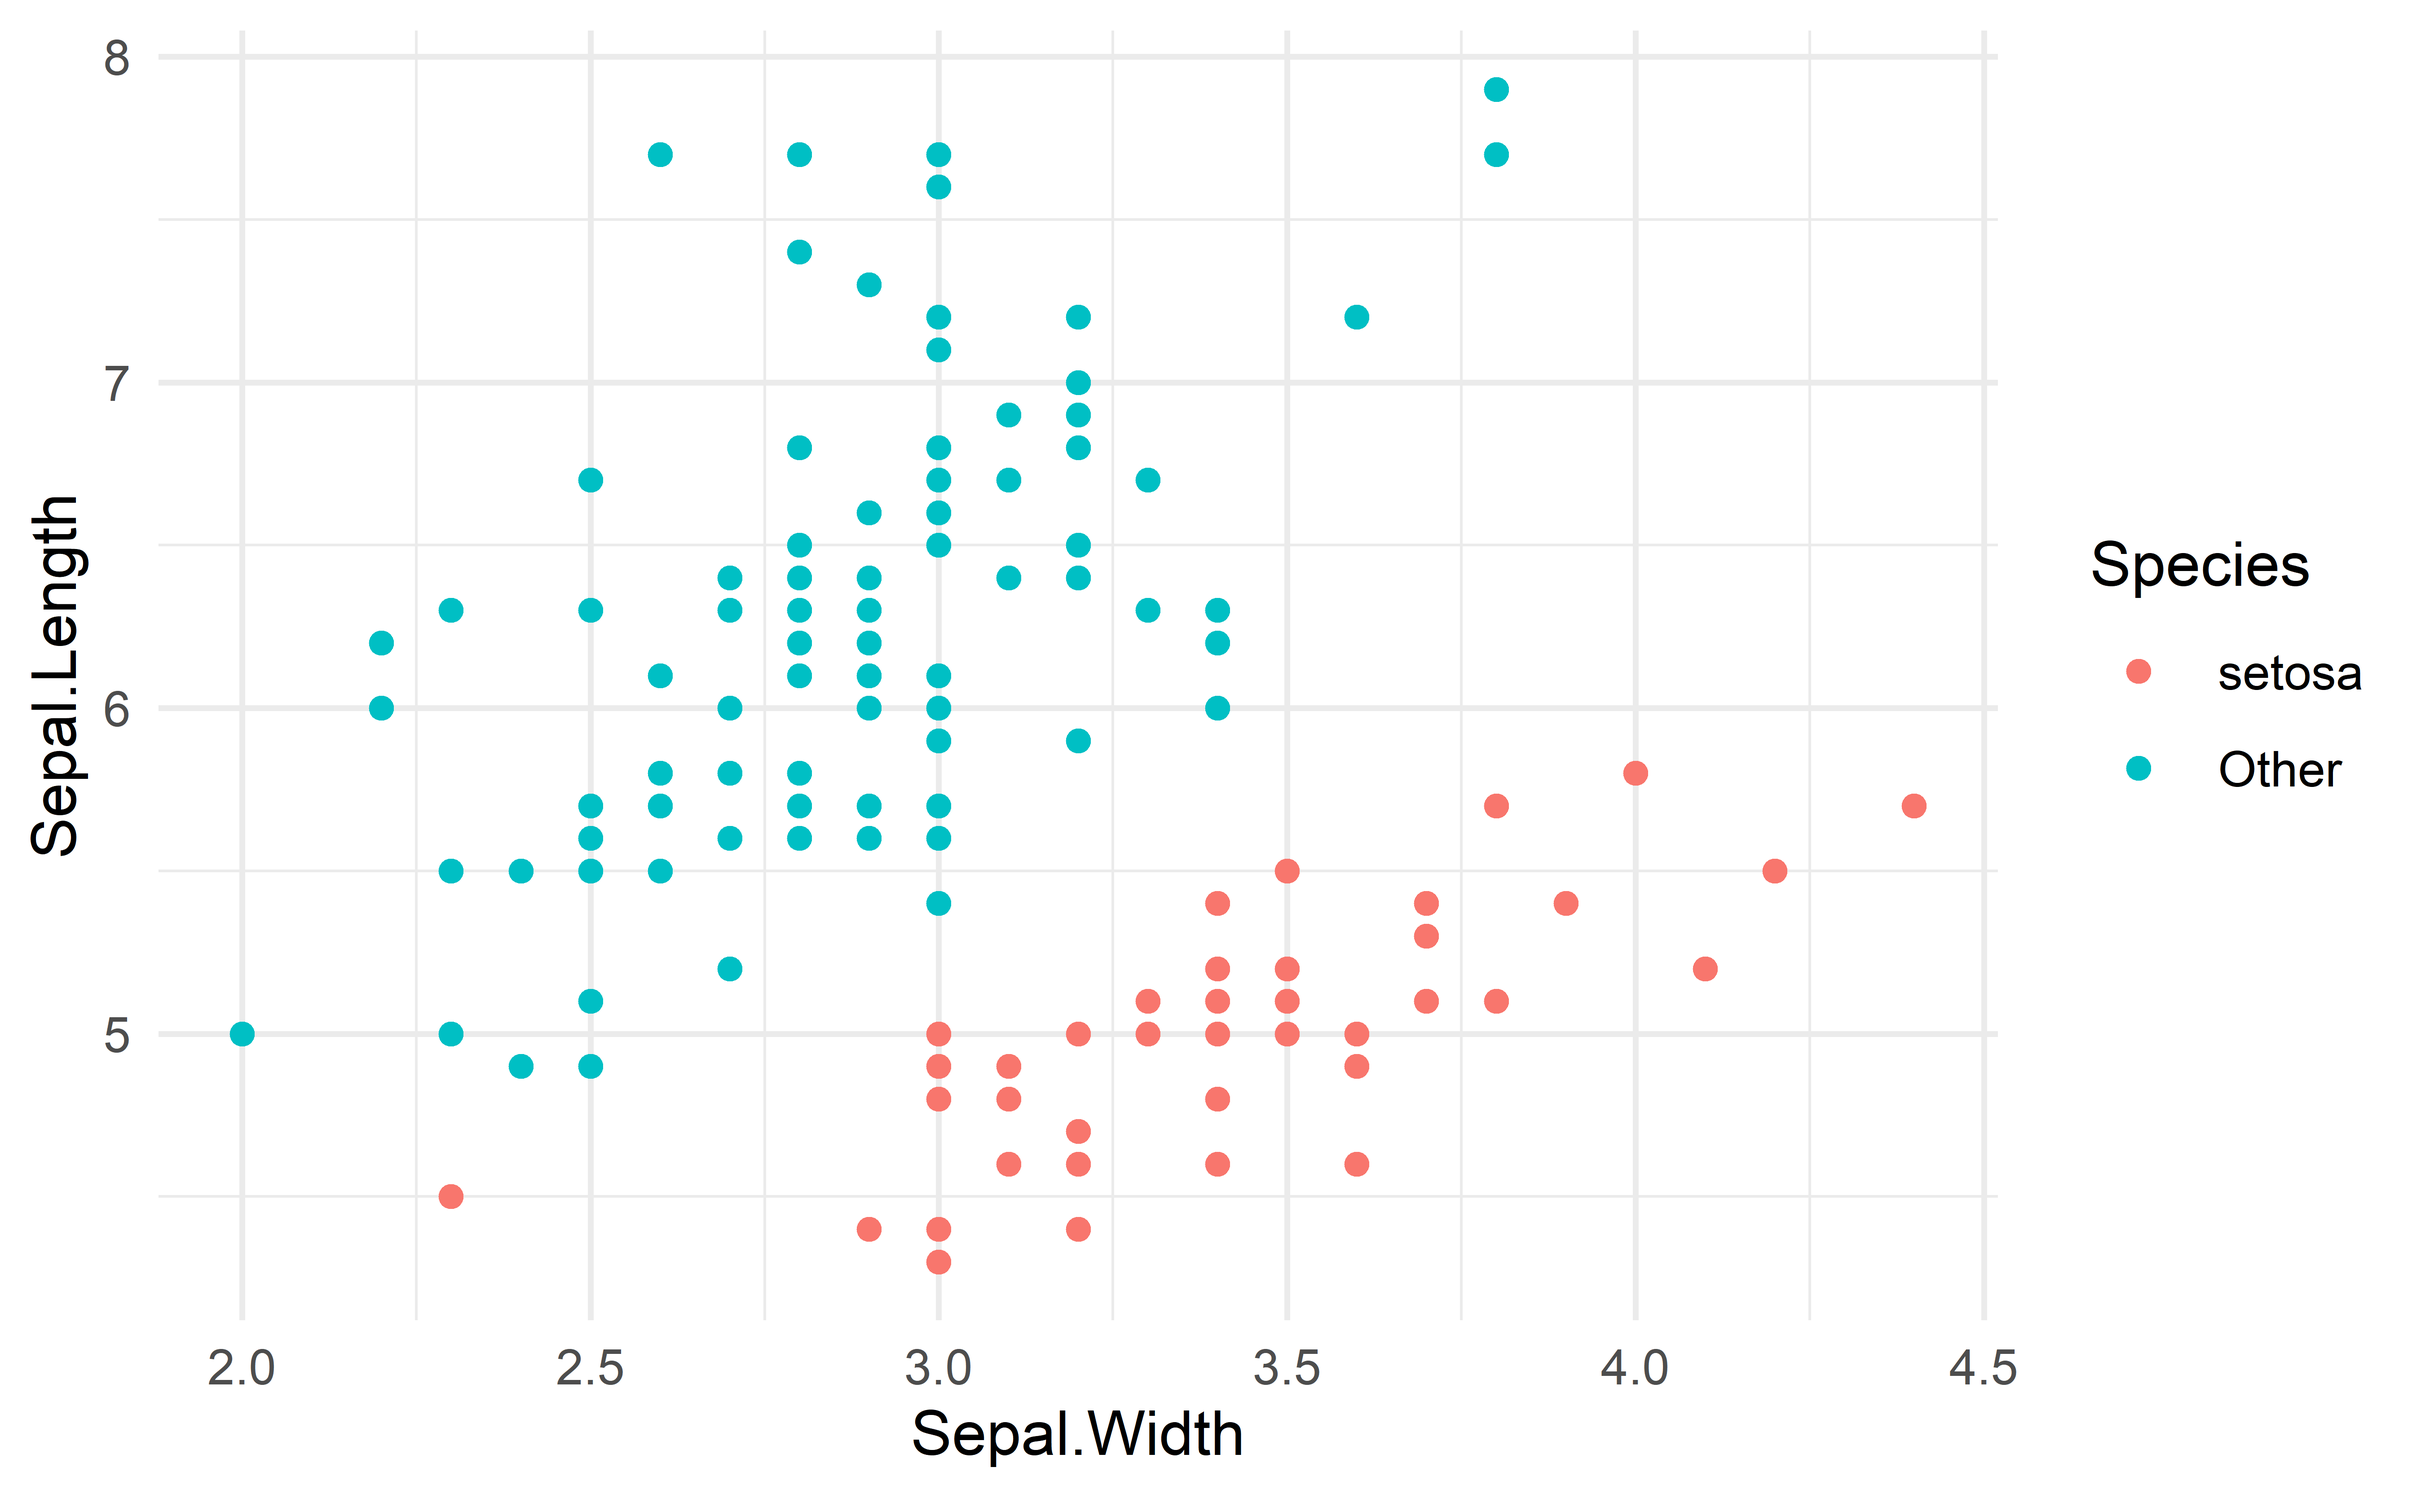
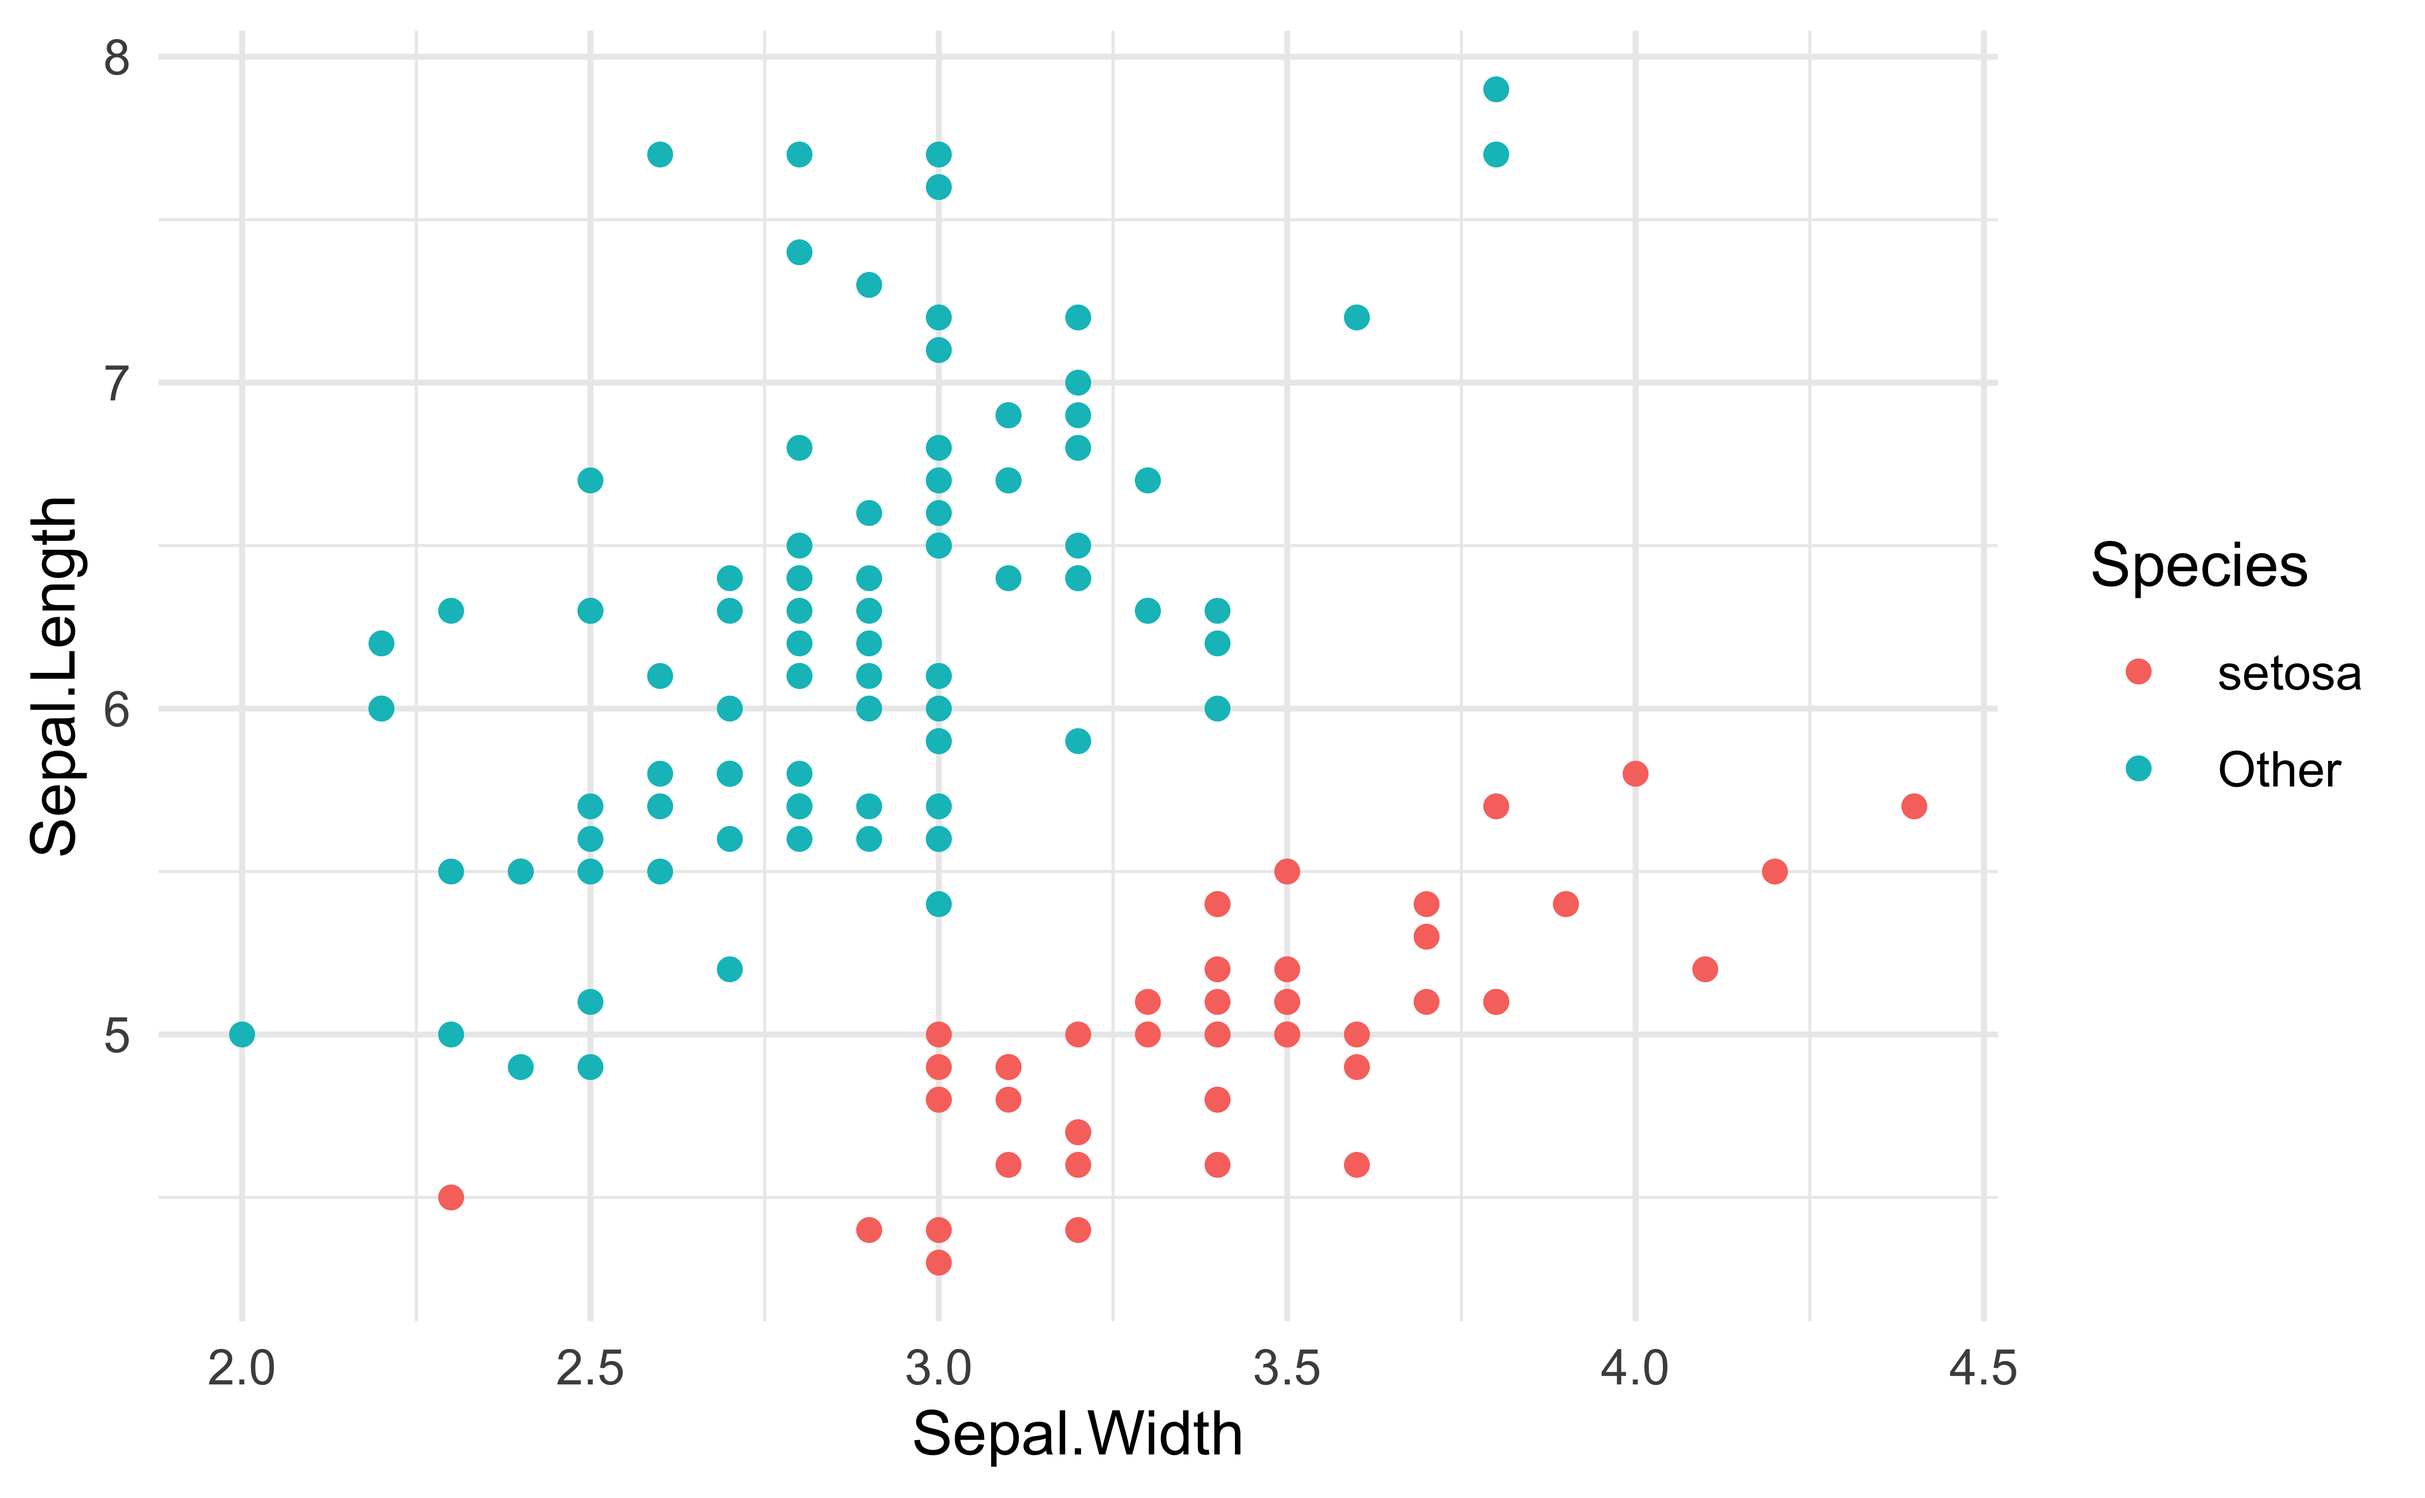
Edited first five slides

Changed region(s): [[0.4667, 0.935, 0.4978, 0.9661], [0.0, 0.3428, 0.0311, 0.374]]

diff --git a/presentation.html b/presentation.html
@@ -1,10 +1,10 @@
 <!DOCTYPE html>
 <html lang="" xml:lang="">
   <head>
-    <title>Presentation title</title>
+    <title>Family Background and Mathematics Performance</title>
     <meta charset="utf-8" />
     <meta name="author" content="α-R   Junyi Mao, Pang-Qiyu, Ziqiao Zhou, Ali Hamzeh &amp; Yachen Wang" />
-    <meta name="date" content="2026-11-18" />
+    <meta name="date" content="2026-12-04" />
     <script src="libs/header-attrs-2.32/header-attrs.js"></script>
     <link rel="stylesheet" href="xaringan-themer.css" type="text/css" />
   </head>
@@ -13,10 +13,10 @@
 class: center, middle, inverse, title-slide
 
 .title[
-# Presentation title
+# Family Background and Mathematics Performance
 ]
 .subtitle[
-## Presentation subtitle (if any)
+## Evidence from PISA 2025
 ]
 .author[
 ### α-R <br> Junyi Mao, Pang-Qiyu, Ziqiao Zhou, Ali Hamzeh &amp; Yachen Wang
@@ -25,7 +25,7 @@ class: center, middle, inverse, title-slide
 ### University of Edinburgh
 ]
 .date[
-### 2026-11-18
+### 4 December 2026
 ]
 
 ---
@@ -42,23 +42,37 @@ class: center, middle, inverse, title-slide
 
 
 
-class: center, middle
+class: middle
 
-## A statement of the overall goal / research question
+## Research question
+
+**How are parental education, parental occupational status, and home ICT resources associated with students’ mathematics performance in PISA 2025?**
+
+--
+
+**Why it matters**
+
+- Students' home environments may play an important role in their educational outcomes. Investigating these relationships can help us better understand how family background relates to educational achievement.
 
 ---
 
 class: inverse, center, middle
 
-# Section title
+# Data
 
 ---
 
-# Hello World
+# Data
 
-- Click the `Knit` button to compile your presentation
+- **Source:** student-level data from the PISA 2025 Student Questionnaire, published by the OECD
+- **Size:** 755,721 students from 90 countries/regions (350,769 used in our 2 models)
+- **Explanatory variables:** Highest education of parents in years, Parental occupation, Home ICT resources
+- **Outcome:** mean mathematics score
 
-- Make sure to commit and push all resulting files to your GitHub repo
+---
+
+# Overall mathematics performance
+&lt;img src="presentation_files/figure-html/Visualising_overall-1.png" alt="" width="80%" /&gt;
 
 ---
 
